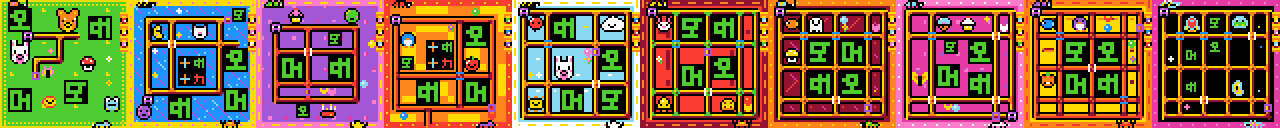
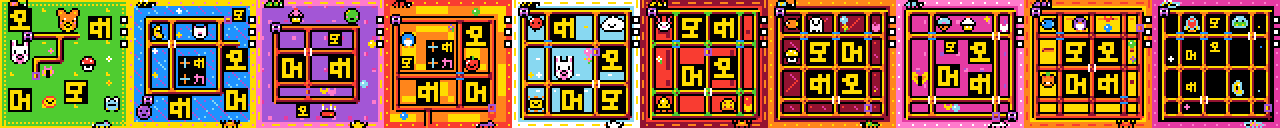
KT03: yellow and pink instead of green and red, three white lights for pulls (v0.9.11)
Green and red mean different things in different cultures, so the signals now
use yellow and pink. On track and held are yellow, wrong is pink, one pass in
is light blue; purple still means ready, orange stuck. The cloth that goes red
while the glyphs say wrong now goes pink and magenta (never purple, which means
ready). The rack of coloured spools was too busy to read: the pulls left are
now three plain black windows down the right edge, each with a white light that
goes out when a pull is spent.

Rules, levels and behaviour unchanged. Same 35 engine checks pass, the solution
script still clears all ten levels, tools/validate.py passes, previews redrawn
and the hash re-pinned. Not tested with a person.

diff --git a/games/kt03.py b/games/kt03.py
@@ -8,14 +8,14 @@
 #   * Three pulls. ACTION5 (Space) is a pull wherever the head is, not only on the finish. The cord tightens from the head
 #     back along the route as before: in the good colour when nothing is wrong, in a different colour (magenta) when
 #     something is, and the wrong crossings are marked. A good pull on the finish clears the level; a good pull anywhere
-#     else changes nothing; a wrong pull uses up one of three spools on the rack and the third wrong pull is GAME_OVER.
+#     else changes nothing; a wrong pull puts out one of three white lights down the right edge and the third wrong pull is GAME_OVER.
 #     A pull changes no cord state, so take-back does not undo it.
 #   * Live indicators before any pull, fading with the level: levels 1 to 3 show each crossing's state at once (waiting,
 #     one pass in, doomed, held, failed); levels 4 to 6 show a crossing only once both passes are laid; levels 7 to 10 show
 #     nothing until a pull. A crossing is DOOMED when its first pass used the strand that is meant to end on top, because a
 #     strand can cross only once, so the second pass can no longer come out right. That is read from the cord, not searched.
 #   * Big glyph tiles in the open cloth that change with the state, in the made-up script of tools/glyphs (kana set 31):
-#     closed shapes in green when on track (purple on the finish), broken dashes in red when wrong (orange when stuck),
+#     closed shapes in yellow when on track (purple on the finish), broken dashes in pink when wrong (orange when stuck),
 #     open strokes after a take-back (light blue) or a blocked move (white). The characters, props and cloth change with them.
 #   * Everything on the picture is still or changes only because the state changed; the free-running scenery of kt02 is gone.
 #     A faint marker shows the stop a take-back returns to, and a stuck head (no legal move off the finish) is shown.
@@ -25,6 +25,9 @@
 #   rule reads (crossing_status, is_stuck) are pure functions over the same state; the art builders and the game class only
 #   read that state. The glyph shapes are copied from tools/glyphs/sets/glyphs_kana_31.json because a game is one file.
 # CHANGELOG: 07-Nov-2026 (Claude Sonnet 5.5) -- first version of kt03.
+#   07-Nov-2026 (Claude Sonnet 5.5) -- colours and the pulls counter, at Mark Barney's call: green and red mean different things in
+#   different cultures, so yellow now says on track and held, pink says wrong, and the cloth turns pink and magenta (not red) when
+#   wrong; the thread rack of coloured spools is replaced by three plain white lights, one per pull left. Rules untouched.
 
 import numpy as np
 
@@ -60,8 +63,8 @@ PULLS = 3                  # wrong pulls allowed per attempt; the third one ends
 TIER_FULL, TIER_DONE = 3, 6   # level indexes: below TIER_FULL crossings show every state live; below TIER_DONE only once both
                               # passes are laid; from TIER_DONE nothing is shown until a pull
 WAITING, ONE_PASS, DOOMED, HELD, FAILED = "waiting", "one pass", "doomed", "held", "failed"
-STATUS_COLOUR = {ONE_PASS: YEL, HELD: GRN, DOOMED: RED, FAILED: RED}   # a crossing's bars, by state; waiting keeps its mark colour
-ON_TRACK, READY_COL, WRONG_COL, STUCK_COL, UNDO_COL, BLOCKED_COL = GRN, PUR, RED, ORG, LBL, WHT   # glyph colours by state
+STATUS_COLOUR = {ONE_PASS: LBL, HELD: YEL, DOOMED: PNK, FAILED: PNK}   # a crossing's bars, by state; waiting keeps its mark colour
+ON_TRACK, READY_COL, WRONG_COL, STUCK_COL, UNDO_COL, BLOCKED_COL = YEL, PUR, PNK, ORG, LBL, WHT   # glyph colours by state
 
 
 # ── motion timing: how the head glides, bumps and how the iris opens (all picture; no rule reads these) ──
@@ -1155,7 +1158,7 @@ def _slat(cell, track, wood) -> list[list[int]]:
 
 def _crossing(mark: str | None, status: str = WAITING) -> list[list[int]]:
     """kt01's two bars per marked crossing, along the strand that must end on top. A waiting crossing keeps its mark
-    colour; one pass in is yellow, held is green, doomed or failed is red and dashed (shape as well as colour)."""
+    colour; one pass in is light blue, held is yellow, doomed or failed is pink and dashed (shape as well as colour)."""
     colour = JUNCTION if mark is None else WANT_H if mark == 'h' else WANT_V
     colour = STATUS_COLOUR.get(status, colour)
     dashed = status in (DOOMED, FAILED)
@@ -1209,18 +1212,14 @@ def _cord_pixels(arms, order, colour) -> list[list[int]]:
     return px
 
 
-def _spool(thread: int, phase: int = 0) -> list[list[int]]:
-    # A wooden spool wound with coloured thread: bench scenery in the right margin, it counts nothing. The shine slides
-    # between two spots (phase 0 and 1) so the thread looks to be turning.
-    shine = WHT if thread != WHT else YEL
-    top = [RIM, shine if phase else thread, thread, RIM]
-    low = [RIM, thread, thread if phase else shine, RIM]
-    return [[ORG, YEL, YEL, ORG], top, low, [ORG, MAR, MAR, ORG]]
-
-
-def _spool_used() -> list[list[int]]:
-    """A spent pull: the same spool with its thread gone and its shine out."""
-    return [[ORG, MAR, MAR, ORG], [RIM, MAR, MAR, RIM], [RIM, MAR, MAR, RIM], [ORG, MAR, MAR, ORG]]
+def _pip(lit: bool) -> list[list[int]]:
+    """One pull left, said as plainly as possible: a black window with a white light in it, or the window dark once that pull is spent."""
+    px = [[BLK] * CELL for _ in range(CELL)]
+    if lit:
+        for y in (1, 2):
+            for x in (1, 2):
+                px[y][x] = WHT
+    return px
 
 
 def _undo_corners(colour: int) -> list[list[int]]:
@@ -1228,20 +1227,6 @@ def _undo_corners(colour: int) -> list[list[int]]:
     px = [[-1] * CELL for _ in range(CELL)]
     for y, x in ((0, 0), (0, CELL - 1), (CELL - 1, 0), (CELL - 1, CELL - 1)):
         px[y][x] = colour
-    return px
-
-
-def _rack(count: int) -> list[list[int]]:
-    """The wooden shelf the spools stand on: a shelf above the first spool and one under each, with the
-    shelf board's light edge on top. Height 6*(count-1)+8 so it lines up with SPOOL_TOP and SPOOL_GAP."""
-    height = 6 * (count - 1) + 8
-    px = [[MAR] * CELL for _ in range(height)]
-    shelves = [0] + [6 * i + 6 for i in range(count)]
-    for s in shelves:
-        for k in range(CELL):
-            px[s][k], px[s + 1][k] = YEL, ORG
-    for r in range(height):
-        px[r][0] = RIM if px[r][0] == MAR else px[r][0]
     return px
 
 
@@ -1321,8 +1306,8 @@ def _crossing_picture(top_axis: str, colour: int) -> np.ndarray:
 
 
 def _panel(top_axis: str) -> np.ndarray:
-    """The wordless teaching panel for the level's mark: the crossing picture the mark asks for beside the closed green glyph,
-    and the other picture beside the broken red glyph. Two strips, each a crossing picture and a small glyph tile."""
+    """The wordless teaching panel for the level's mark: the crossing picture the mark asks for beside the closed yellow glyph,
+    and the other picture beside the broken pink glyph. Two strips, each a crossing picture and a small glyph tile."""
     px = np.full((PANEL_H, PANEL_W), BLK, dtype=np.int8)
     other = "H" if top_axis == "V" else "V"
     for row, (axis, family, colour) in enumerate(((top_axis, "B", ON_TRACK), (other, "C", WRONG_COL))):
@@ -1837,7 +1822,7 @@ def make_cloth(theme: dict, track=(), phase: int = 0) -> np.ndarray:
     return cloth
 
 
-# ── the ten themes: cloth, trim, glint, wood, props, heroes, walkers, ambient life, spool thread ──
+# ── the ten themes: cloth, trim, glint, wood, props, heroes, walkers ──
 # amb entries are (style, colours, how many); `hero` props are the big twelve-pixel creatures.
 THEMES = [
     # 1  garden table: green cloth, blossom tufts, scalloped hem, a bear, petals and fireflies
@@ -1845,64 +1830,64 @@ THEMES = [
          hero=[('bear', ORG, YEL), ('bunny3', WHT, PNK)],
          big=[('mushroom', RED, WHT), ('flower', RED, YEL), ('frog', LBL, YEL), ('butterfly', PNK, YEL)],
          small=[('flower4', YEL, ORG), ('flower4', WHT, YEL), ('flower4', PNK, YEL)],
-         mover=('snail', ORG, PNK), mover2=('mouse', LBL, PNK), thread=(RED, YEL, PNK, LBL)),
+         mover=('snail', ORG, PNK), mover2=('mouse', LBL, PNK)),
     # 2  night quilt: blue cloth with stitched diamonds, bead trim, an owl, fireflies and a shooting star
     dict(cloth=BLU, pat='quilt', ink=(PUR,), glint=LBL, trim='beads', hem=YEL, hem2=PNK, wood=(ORG, YEL, MAR), petal=PNK,
          hero=[('owl3', ORG, YEL)],
          big=[('moon', YEL, 0), ('cat', WHT, PNK), ('yarn', PUR, PNK)],
          small=[('star', YEL, 0), ('star', WHT, 0), ('star', YEL, 0), ('star', WHT, 0)],
-         mover=('bee', YEL, BLK), mover2=('crab', ORG, YEL), thread=(YEL, PNK, WHT, ORG)),
+         mover=('bee', YEL, BLK), mover2=('crab', ORG, YEL)),
     # 3  grape velvet: purple cloth with magenta polka dots, zigzag ribbon, a frog and rising hearts
     dict(cloth=PUR, pat='polka', ink=(MAG,), glint=PNK, trim='dash', hem=PNK, hem2=YEL, wood=(RED, ORG, MAR), petal=PNK,
          hero=[('frog3', GRN, YEL)],
          big=[('cupcake', PNK, YEL), ('pincushion', RED, YEL), ('yarn', GRN, YEL)],
          small=[('heart', PNK, 0), ('heart', YEL, 0), ('bead', LBL, 0), ('bead', YEL, 0)],
-         mover=('caterpillar', GRN, YEL), mover2=('duck', YEL, ORG), thread=(PNK, YEL, LBL, GRN)),
+         mover=('caterpillar', GRN, YEL), mover2=('duck', YEL, ORG)),
     # 4  gingham cloth: big calm orange and yellow checks, racing-flag trim, a cat, leaves and birds
     dict(cloth=ORG, pat='gingham', ink=(YEL,), trim='dots', hem=RED, hem2=YEL, wood=(MAR, ORG, RED), petal=PNK,
          hero=[('cat3', PUR, PNK)],
          big=[('apple', RED, WHT), ('penguin', BLU, LBL), ('acorn', YEL, RED)],
          small=[('bead', BLU, 0), ('heart', RED, 0), ('flower4', PUR, YEL), ('bead', GRN, 0)],
-         mover=('ladybug', RED, BLK), mover2=('mouse', PUR, PNK), thread=(GRN, BLU, PUR, WHT)),
+         mover=('ladybug', RED, BLK), mover2=('mouse', PUR, PNK)),
     # 5  sky picnic: light blue cloth, fat clouds with faces, a bunny, birds and bubbles
     dict(cloth=LBL, pat='dashes', ink=(WHT,), glint=YEL, trim='scallop', hem=WHT, hem2=YEL, wood=(ORG, YEL, MAR), petal=YEL,
          hero=[('bunny3', WHT, PNK)],
          big=[('cloud', WHT, 0), ('balloon', RED, 0), ('cloud', WHT, 0), ('sun', YEL, 0)],
          small=[('star', WHT, 0), ('star', YEL, 0), ('bead', PNK, 0), ('flower4', PNK, YEL)],
-         mover=('bee', YEL, BLK), mover2=('duck', WHT, ORG), thread=(BLU, RED, YEL, PNK)),
+         mover=('bee', YEL, BLK), mover2=('duck', WHT, ORG)),
     # 6  tartan: red plaid cloth with wide bands, green bamboo slats, zigzag trim, an owl, leaves
     dict(cloth=RED, pat='plaid', ink=(MAR,), glint=RED, trim='dash', hem=MAR, hem2=ORG, wood=(GRN, YEL, MAR), petal=YEL,
          hero=[('owl3', PUR, PNK)],
          big=[('bell', YEL, ORG), ('bunny', WHT, PNK), ('thimble', YEL, ORG)],
          small=[('heart', YEL, 0), ('star', YEL, 0), ('flower4', WHT, YEL)],
-         mover=('caterpillar', YEL, BLK), mover2=('crab', ORG, YEL), thread=(LBL, YEL, GRN, WHT)),
+         mover=('caterpillar', YEL, BLK), mover2=('crab', ORG, YEL)),
     # 7  argyle: maroon cloth with red diamonds, bead trim, a cat, embers rising
     dict(cloth=MAR, pat='argyle', ink=(RED,), glint=MAG, trim='beads', hem=ORG, hem2=YEL, wood=(ORG, YEL, MAR), petal=ORG,
          hero=[('cat3', YEL, ORG)],
          big=[('ghost', WHT, 0), ('fish', ORG, YEL), ('mushroom', YEL, WHT)],
          small=[('star', YEL, 0), ('heart', PNK, 0), ('bead', LBL, 0), ('flower4', YEL, ORG)],
-         mover=('snail', LBL, YEL), mover2=('beetle', GRN, YEL), thread=(YEL, LBL, PNK, GRN)),
+         mover=('snail', LBL, YEL), mover2=('beetle', GRN, YEL)),
     # 8  candy cloth: magenta with pink polka dots, racing-flag trim, a frog, sprinkles and hearts
     dict(cloth=MAG, pat='polka', ink=(PNK,), glint=PUR, trim='dots', hem=PNK, hem2=WHT, wood=(ORG, YEL, MAR), petal=YEL,
          hero=[('frog3', GRN, YEL)],
          big=[('icecream', LBL, ORG), ('cupcake', WHT, YEL), ('butterfly', YEL, ORG)],
          small=[('heart', WHT, 0), ('heart', YEL, 0), ('bead', LBL, 0), ('star', YEL, 0)],
-         mover=('ladybug', LBL, BLK), mover2=('mouse', WHT, PNK), thread=(LBL, YEL, GRN, ORG)),
+         mover=('ladybug', LBL, BLK), mover2=('mouse', WHT, PNK)),
     # 9  cheesecloth: yellow stripes, scalloped hem, a bear, green bubbles
     dict(cloth=YEL, pat='stripes', ink=(ORG,), glint=MAR, trim='scallop', hem=ORG, hem2=RED, wood=(MAR, ORG, RED), petal=RED,
          hero=[('bear', MAR, ORG)],
          big=[('pumpkin', ORG, RED), ('penguin', PUR, LBL), ('fish', BLU, LBL)],
          small=[('heart', RED, 0), ('bead', BLU, 0), ('flower4', PUR, ORG), ('bead', GRN, 0)],
-         mover=('caterpillar', PUR, PNK), mover2=('crab', RED, ORG), thread=(PUR, BLU, RED, GRN)),
+         mover=('caterpillar', PUR, PNK), mover2=('crab', RED, ORG)),
     # 10  night cloth: black with bright thread confetti, bead trim, an owl, twinkles and a comet
     dict(cloth=BLK, line=LBL, pat='confetti', ink=(PUR, BLU, MAG), glint=LBL, trim='beads', hem=MAG, hem2=PNK, wood=(ORG, YEL, MAR), petal=PNK,
          hero=[('owl3', PUR, PNK)],
          big=[('moon', YEL, 0), ('rocket', RED, YEL), ('ufo', GRN, 0)],
          small=[('star', YEL, 0), ('star', PNK, 0), ('star', LBL, 0), ('star', WHT, 0)],
-         mover=('bee', YEL, BLK), mover2=('beetle', PNK, YEL), thread=(YEL, PNK, LBL, GRN)),
+         mover=('bee', YEL, BLK), mover2=('beetle', PNK, YEL)),
 ]
 
-SPOOL_X, SPOOL_TOP, SPOOL_GAP = N * CELL - CELL, 8, 6   # the thread rack: one spool per pull left
+PIP_X, PIP_TOP, PIP_GAP = N * CELL - CELL, 8, 6   # the pulls left: one light per pull, in the right margin
 PANEL_LEVELS = (1, 3)      # level indexes that get the teaching panel (the first of each kind of mark)
 TILE_COUNT = 4             # glyph tiles per level, as many as the open cloth holds
 MOVER_Y = 0               # a creature stands in the very top margin of the cloth
@@ -2036,10 +2021,9 @@ def build_levels() -> list[Level]:
                 add(solid, f"flash_{cell[0]}_{cell[1]}", cell[0] * CELL, cell[1] * CELL, 3,
                     ("flash",), visible=False)
         add(_undo_corners(MAR), "undo_mark", 0, 0, 2, ("undo",), visible=False)
-        # the thread rack: one spool per pull left
-        add(_rack(PULLS), "rack", SPOOL_X, SPOOL_TOP - 2, 4, ("rack",))
+        # the pulls left: a black window with a white light for each pull, down the right margin
         for i in range(PULLS):
-            add(_spool(theme['thread'][i % len(theme['thread'])]), f"spool_{i}", SPOOL_X, SPOOL_TOP + i * SPOOL_GAP, 5, ("spool",))
+            add(_pip(True), f"pip_{i}", PIP_X, PIP_TOP + i * PIP_GAP, 5, ("pip",))
         # feedback sprites, hidden until needed: win sparkles round the finish, a dimming veil for a lost run
         for k in range(6):
             add(_spark(YEL, False), f"spark_{k}", 0, 0, 9, ("spark",), visible=False)
@@ -2070,11 +2054,13 @@ def make_iris(cx: int, cy: int, radius: float) -> np.ndarray:
 
 
 def lost_cloth(cloth: np.ndarray, theme: dict) -> np.ndarray:
-    """The same cloth after a lost pull: every plain pixel goes deep maroon (black on dark cloths) and every
-    patterned or hemmed pixel goes red, so the whole table looks wounded while the weave stays visible."""
+    """The same cloth while the glyphs say wrong, and after a lost run: every plain pixel goes magenta and every patterned or
+    hemmed pixel goes pink (the other way round on a cloth that is already magenta), so the whole table changes colour while the
+    weave stays visible. Pink, not red: red and green mean different things in different cultures, so the wrong signal is pink
+    wherever it appears. Never purple, which means ready."""
     base = theme['cloth']
-    dim = BLK if base in (MAR, BLK) else MAR
-    return np.where(cloth == base, dim, RED).astype(np.int8)
+    plain, pattern = (PNK, MAG) if base == MAG else (MAG, PNK)
+    return np.where(cloth == base, plain, pattern).astype(np.int8)
 
 
 class Kt03(ARCBaseGame):
@@ -2189,8 +2175,8 @@ class Kt03(ARCBaseGame):
         return found[0] if found else None
 
     def _scenery(self):
-        """Per-level sprite lookups, done once per level object: the props, the two creatures, the glyph tiles, the rack's
-        spools, the undo marker, the cloth and its red twin. Rebuilt whenever the engine hands us a fresh level object."""
+        """Per-level sprite lookups, done once per level object: the props, the two creatures, the glyph tiles, the pulls-left
+        lights, the undo marker, the cloth and its red twin. Rebuilt whenever the engine hands us a fresh level object."""
         if self._cache_level is not self.current_level:
             theme = THEMES[self.level_index]
             _, tiles, props = scenery_plan(self.level_index, self.track, LEVELS_SPEC[self.level_index])
@@ -2206,7 +2192,7 @@ class Kt03(ARCBaseGame):
             self._tiles = [(self._sprite(f"glyph_{k}"), cells) for k, (_, _, cells) in enumerate(tiles)]
             self._sparks = [self._sprite(f"spark_{k}") for k in range(6)]
             self._shower = [self._sprite(f"shower_{k:02d}") for k in range(SHOWER)]
-            self._spools = [(self._sprite(f"spool_{i}"), theme['thread'][i % len(theme['thread'])]) for i in range(PULLS)]
+            self._pips = [self._sprite(f"pip_{i}") for i in range(PULLS)]
             self._undo_mark = self._sprite("undo_mark")
             self._veil = self._sprite("veil")
             self._iris = self._sprite("iris")
@@ -2336,10 +2322,10 @@ class Kt03(ARCBaseGame):
         for k, (tile, cells) in enumerate(self._tiles):
             if tile is not None:
                 tile.pixels = _tile(family, first + k, glyph_colour, cells)
-        # the rack: a spool for each pull left, a dull one for each pull used
-        for i, (spool, thread) in enumerate(self._spools):
-            if spool is not None:
-                spool.pixels = np.array(_spool(thread, 0) if i < self.pulls_left else _spool_used(), dtype=np.int8)
+        # the pulls left: a lit window for each, a dark one for each pull used
+        for i, pip in enumerate(self._pips):
+            if pip is not None:
+                pip.pixels = np.array(_pip(i < self.pulls_left), dtype=np.int8)
         # the marker on the stop a take-back returns to: faint normally, bright while the glyphs say wrong or stuck
         if self._undo_mark is not None:
             if self.history and not decided:

diff --git a/docs/07-Nov-2026-kt02-legibility-plan.md b/docs/07-Nov-2026-kt02-legibility-plan.md
@@ -10,13 +10,13 @@ Status: BUILT as a new game, KT03 (`games/kt03.py`), on 07-Nov-2026, after Mark'
 - **New id, KT02 untouched.** KT03 takes KT02's place in the highlighted list, as LT05 and DZ03 did.
 - **Open decisions settled by the recommendation:** a good pull away from the finish is free (only wrong pulls use a pull); ramp cut-offs 1-3 / 4-6 / 7-10; edit-in-place replaced by a new id.
 - **Bigger glyphs, not 4×4 corner glyphs.** Mark said the edges do not matter and to lean bigger, so the signals are glyph tiles in the open cloth instead: 12×12 px (the 5×5 glyph doubled) where a 3×3-cell gap exists, 8×8 where only 2×2 does. Four per level. They use the existing 5×5 kana set 31 from `tools/glyphs/sets/`, so the 4×4 generator work was dropped. Every level got at least four tiles; level 10 only has room for the small size.
-- **The glyphs change as you go wrong.** Closed shapes in green when on track (purple when on the finish), broken dashes in red when wrong (orange when stuck), open strokes in light blue after an undo and white after a blocked move. Tile k shows glyph `(first + k) % 7` of the family, so tiles differ and each state has its own shapes.
+- **The glyphs change as you go wrong.** Closed shapes in yellow when on track (purple when on the finish), broken dashes in pink when wrong (orange when stuck), open strokes in light blue after an undo and white after a blocked move. (First built in green and red; swapped for yellow and pink at Mark's call, because green and red mean different things in different cultures. The wrong cloth is pink and magenta, never purple, which means ready.) Tile k shows glyph `(first + k) % 7` of the family, so tiles differ and each state has its own shapes.
 - **Mood follows what is shown.** The whole cloth turns red and dim, the two creatures swap ends and the props droop while the glyphs say wrong. Refinement of the plan's "mood stays live on every level": on levels 7-10 nothing is live, so the mood changes only after a pull (otherwise it would give away what the pull is meant to report). STUCK, the undo marker and the pulls-left rack stay live on every level.
-- **Crossings.** Bars recolour by state on levels where it is live: yellow after one pass, green when held, red and dashed (shape as well as colour) when doomed or failed. A pull shows the same on every level until the next input.
+- **Crossings.** Bars recolour by state on levels where it is live: light blue after one pass, yellow when held, pink and dashed (shape as well as colour) when doomed or failed. A pull shows the same on every level until the next input.
 - **Pull.** As in I below. A pull on the finish with an unfinished crossing counts as wrong. The wave colour is the verdict; wrong crossings flash during the pull and stay marked after it.
 - **No free-running motion.** The ambient drifters, the corner flowers, the idle blink, the spool shine and the cloth shimmer are gone; the creatures and props are still unless the state changes.
-- **Teaching panel** replaces the old level-2 tag and picture, on levels 2 and 4 (the first of each mark): two strips, each a crossing picture beside a glyph tile. The picture the mark asks for sits beside the closed green glyph, the other one beside the broken red glyph.
-- **Not done or not checked:** no person has played it. The pulls-left rack is still the small right-margin one. The panel's crossing pictures are subtle at 5×5. Whether the ramp cut-offs feel right is untested. The play checks were scratch scripts and are not in the repo; `solutions/kt03_clear_levels.py` is.
+- **Teaching panel** replaces the old level-2 tag and picture, on levels 2 and 4 (the first of each mark): two strips, each a crossing picture beside a glyph tile. The picture the mark asks for sits beside the closed yellow glyph, the other one beside the broken pink glyph.
+- **Not done or not checked:** no person has played it. The pulls-left counter is three plain white lights in the small right margin (the first build used a rack of coloured spools, which Mark found too busy); it is easy to miss if you are not looking for it. The panel's crossing pictures are subtle at 5×5. Whether the ramp cut-offs feel right is untested. The play checks were scratch scripts and are not in the repo; `solutions/kt03_clear_levels.py` is.
 Revision: Mark does not want to learn the rule by losing a level. Space is now a pull that plays the cinch animation in a different colour when the knot is wrong, and the player gets three pulls (I). Early levels get live help that fades (J). The glyph generators now live in this repo under `tools/glyphs/` (see `docs/07-Nov-2026-glyph-tools-plan.md`).
 
 ## What is wrong (read from `games/kt02.py`)

diff --git a/CHANGELOG.md b/CHANGELOG.md
@@ -1,5 +1,9 @@
 # Changelog
 
+## 0.9.11 — 7 November 2026
+
+Claude Sonnet 5.5, at Mark Barney's call (green and red mean different things in Western and Asian cultures; the pulls indicator was "way too complex even for the human eye"; "make the yellow and pink take the place of the green and red"): KT03's colours and pulls counter, same game id. On track and held are now yellow, wrong is pink, one pass in is light blue; purple still means ready, orange stuck, light blue an undo, white a blocked move. The cloth that goes red while the glyphs say wrong now goes pink and magenta (the other way round on the magenta cloth, so it is never purple). The thread rack of coloured spools is gone: the pulls left are three plain black windows down the right edge, each with a white light that goes out when a pull is spent. The rules, levels and behaviour are as in 0.9.10. Checked in the real engine on Windows: the same 35 checks as before pass (all ten levels cleared, three pulls and game over, reset, free good pull, tiers, stuck, undo and blocked glyphs, determinism); `solutions/kt03_clear_levels.py` still clears all ten; `tools/validate.py` passes; previews redrawn and the hash re-pinned. Not tested: whether a person finds the three lights easy to notice, or whether yellow and orange are easy enough to tell apart (stuck is orange, on track is yellow, and the shapes differ). Props and creatures that droop when wrong are still tinted towards red, which is character art rather than a signal. Catalog version is now 0.9.11.
+
 ## 0.9.10 — 7 November 2026
 
 Claude Sonnet 5.5, at Mark Barney's call (a human could not tell if they were on the right track or what to do, and learned the rule only by losing a level; "obviously it needs a new ID"), plan in `docs/07-Nov-2026-kt02-legibility-plan.md`: a new game, KT03, built from KT02 (KT02 stays in `games/`) and replacing it in the highlighted list. The puzzle is unchanged: the same ten levels, slat layouts, marks and two-pass rule, the same four directions and take-back. New: **three pulls**. Space is a pull anywhere; the cord tightens from the head in purple if nothing is wrong and magenta if something is, and the wrong crossings are marked. A good pull on the finish clears the level, a good pull elsewhere changes nothing and is free, and each wrong pull dulls one of three spools; the third wrong pull ends the run, and a reset restores three. **Live indicators that fade**: levels 1 to 3 show a crossing's state at once (a crossing is doomed when its first pass used the strand meant to end on top, read from the cord, not searched), levels 4 to 6 once both passes are laid, levels 7 to 10 only after a pull. **Big glyph tiles** in the open cloth, from the kana set in `tools/glyphs`, change shape and colour with the state: closed green shapes on track (purple on the finish), broken red dashes when wrong, orange when stuck, light-blue open strokes after an undo, white after a blocked move; the cloth goes red, the creatures swap ends and the props droop with them. A faint marker shows the stop an undo returns to. The free-running scenery of KT02 is gone, so every change on screen means something. A wordless panel on levels 2 and 4 replaces the old level-2 picture. Also adds `solutions/kt03_clear_levels.py`, a search over the game's own rules that clears all ten levels (it reads the rules, so it is not a frames-only agent). Checked in the real engine on Windows: all ten levels cleared by a pull on the finish and the game reaches WIN; a doomed first pass, a wrong pull (three to two spools, cord and level untouched), three wrong pulls ending in GAME_OVER and a reset restoring three, a free good pull, an unfinished crossing on the finish counting as wrong, the dead end on level 1 reading as stuck, undo and blocked glyphs, the three tiers on levels 2, 5 and 8, two identical runs giving identical frames; `tools/validate.py` passes. Not tested: whether a person finds it clear or fun, the ramp cut-offs, and the small pulls-left rack in the right margin. The Play link follows the catalog's pattern but the lab does not host KT03 yet. Catalog version is now 0.9.10.
